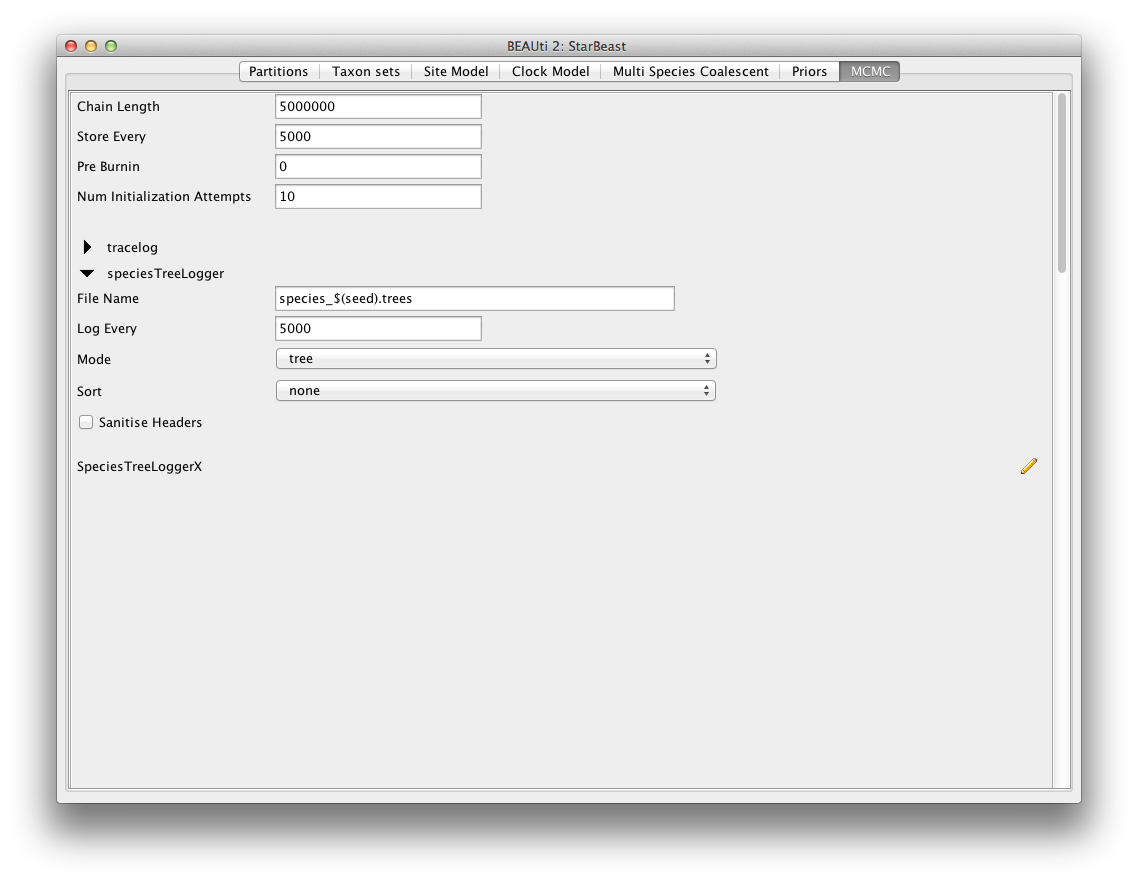
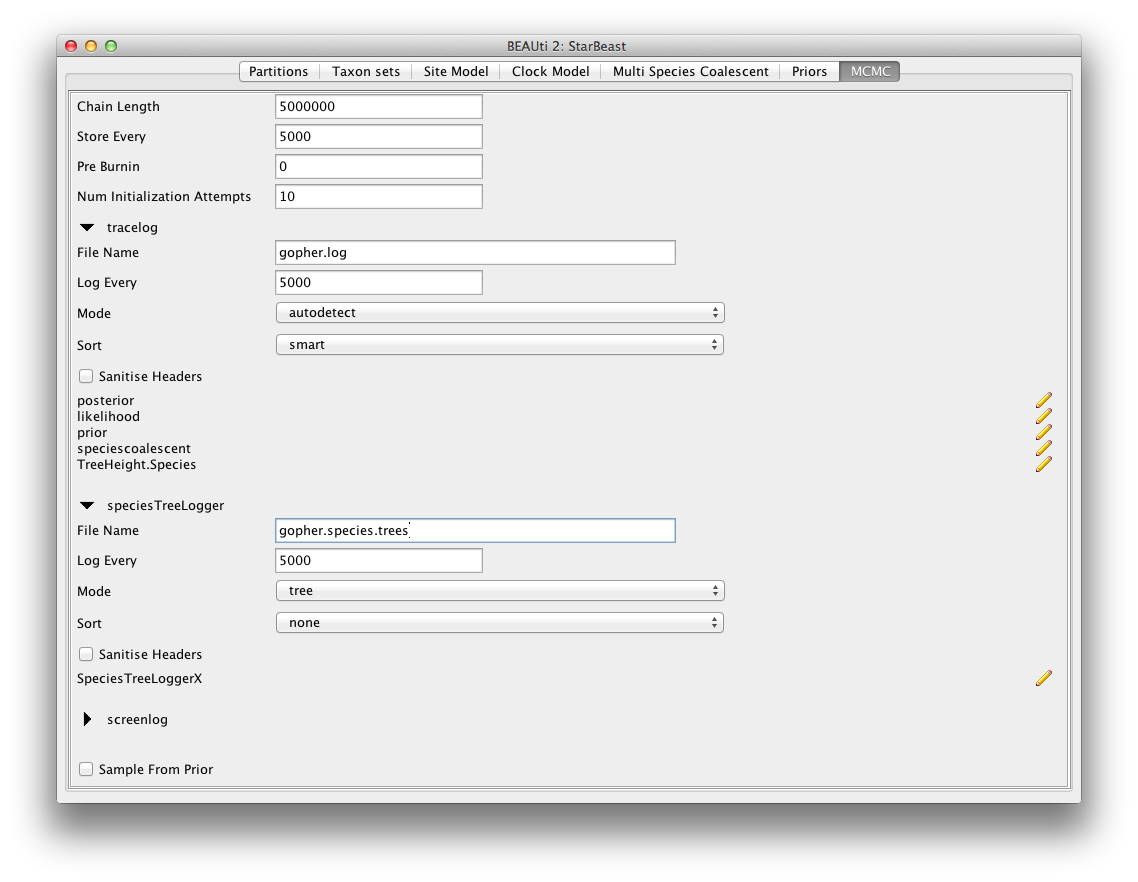
correct and update *BEAST tutorial for #210

diff --git a/doc/tutorials/STARBEAST/StarBEAST_tutorial.tex b/doc/tutorials/STARBEAST/StarBEAST_tutorial.tex
@@ -195,8 +195,8 @@ The \textbf{Estimate} check box is unchecked for the first clock model and check
 
 \subsubsection*{Multi Species Coalescent}
 
-The {\bf Multi Species Coalescent} panel allows settings to the multi species coalescent model to be specified for each tree. *BEAST has a different tree prior panel where users can only configure the species tree prior not gene tree priors (which are automatically specified by the multispecies coalescent). Currently, we have two species tree priors: \textbf{Yule Process} and \textbf{Birth-Death Process}; and three population size models: \textbf{Piecewise linear and constant root}, \textbf{Piecewise linear}, and \textbf{Piecewise constant}. 
-In this analysis, we use {piecewise linear and constant root}.
+The {\bf Multi Species Coalescent} panel allows settings to the multi species coalescent model to be specified for each tree. *BEAST has a different tree prior panel where users can only configure the species tree prior not gene tree priors (which are automatically specified by the multispecies coalescent). 
+Currently, three population size models are available: \textbf{Piecewise linear and constant root}, \textbf{Piecewise linear}, and \textbf{Piecewise constant}. In this analysis, we use \textbf{piecewise linear and constant root}.
 
 The \textbf{Ploidy} item determines the type of sequence (mitochondrial, nuclear, X, Y). This matters since different modes of inheritance gives rise to different effective population sizes. In this analysis, we simply use a random starting tree. 
 
@@ -211,8 +211,7 @@ The \textbf{Ploidy} item determines the type of sequence (mitochondrial, nuclear
 \subsubsection*{Priors and Operators}
 
 The {\bf Priors} panel allows priors to be specified for each parameter in the model. 
-The {\bf Operators} panel (hidden) is used to configure technical settings that affect the efficiency of the MCMC program. 
-We leave these two panels unchanged in this analysis.
+Several models are available as tree priors, however, only the Yule or the Birth-Death Model are suitable for *BEAST analyses. Leave the tree prior setting at the default \textbf{Yule model}. The {\bf Operators} panel (hidden) is used to configure technical settings that affect the efficiency of the MCMC program. We leave these two panels unchanged in this analysis.
 
 \subsubsection*{Setting the MCMC options }
 
@@ -240,10 +239,8 @@ contain much information about the distributions of the parameters.
 You probably want to aim to store no more than 10,000 samples so this should be
 set to no less than chain length / 10,000.
 
-For this exercise we will set the \texttt{screen log} to \underline{\screenEvery{}} and the \texttt{trace log} to \underline{\logEvery{}}. The final two
-options give the file names of the log files for the sampled parameters and
-the trees. These will be set to a default based on the name of the
-imported NEXUS file. 
+For this exercise we will set the \texttt{screen log} to \underline{\screenEvery{}} and the \texttt{trace log} to \underline{\logEvery{}}. 
+Set the file name of the trace log to \texttt{gopher.log} and that of the speciesTreeLogger to \texttt{gopher.species.trees}.
 
 %If you would like to save the operator analysis into a file, you need to check  \textbf{Create operator analysis file} which will generate a file with the suffix \texttt{.ops}. 
 
@@ -256,7 +253,7 @@ imported NEXUS file.
 
 
 If you are using windows then we suggest you add the suffix \texttt{.txt} to both of these (so,
-\texttt{gopher.log.txt} and \texttt{gopher.trees.txt}) so that Windows recognizes
+\texttt{gopher.log.txt} and \texttt{gopher.species.trees.txt}) so that Windows recognizes
 these as text files. 
 
 \subsubsection*{Generating the BEAST XML file }
